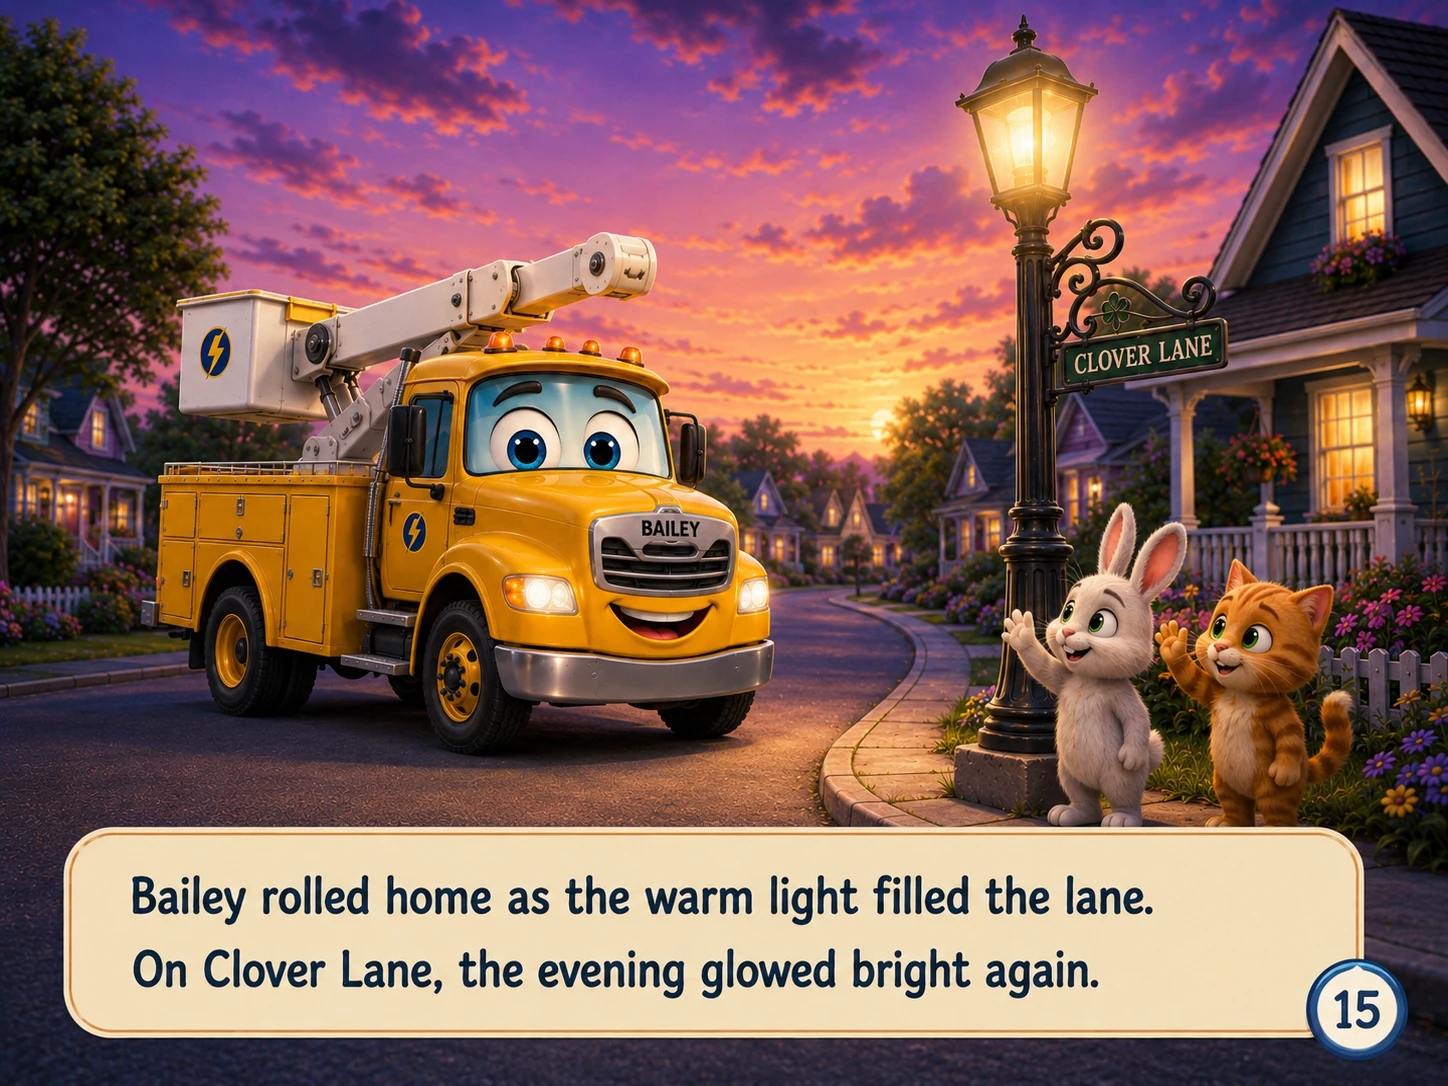
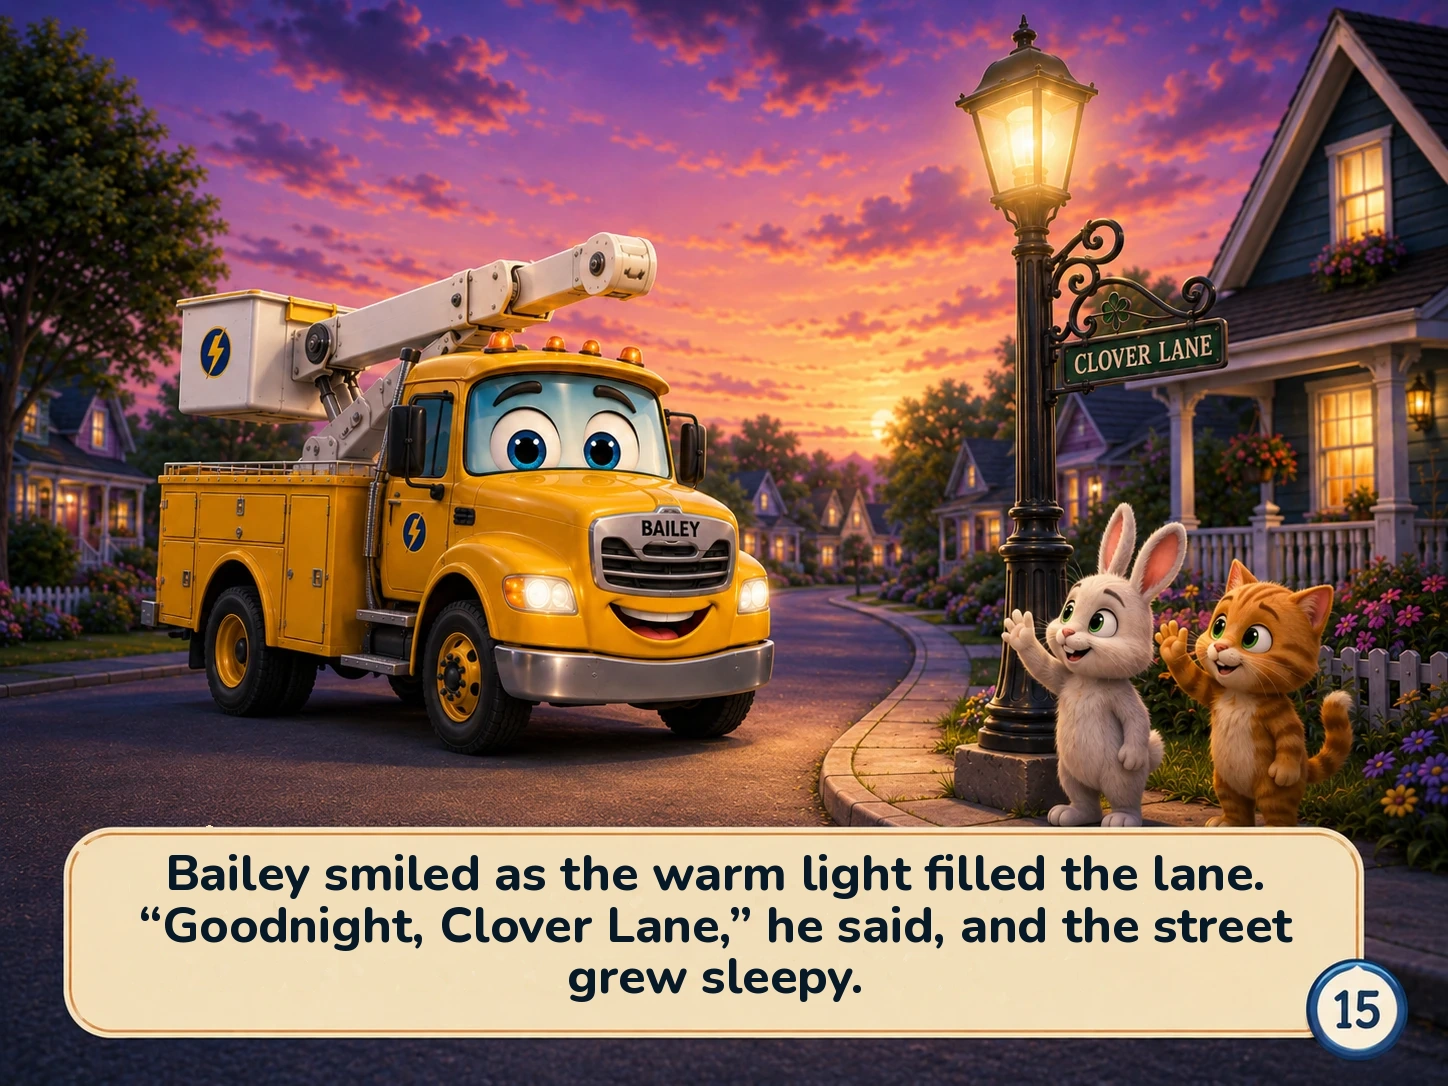
Add goodnight endings, fix two captions, and bump the library cache.
Hazel and Bailey close with a clear goodnight, Max-D says I can, Tilly's cart is hers, and the cache is nolan-library-v56.

Changed region(s): [[0.0932, 0.7901, 0.9012, 0.942]]

diff --git a/app.js b/app.js
@@ -396,7 +396,7 @@ cover: 'assets/books/max-d-twisty-training-track/cover.webp', pages: Array.from(
 narration: [
   "One quiet evening, Max-D rolled to the twisty training track. He was ready to practice slow and careful turns.",
   "The track curved left, then right, then round again. Little cones and flags showed Max-D where to go.",
-  "‘l can do this one step at a time,’ said Max-D. He took the first bend with a steady smile.",
+  "‘I can do this one step at a time,’ said Max-D. He took the first bend with a steady smile.",
   "Max-D rumbled gently between the bright orange cones. He made each turn a little smoother than the last.",
   "At the next corner, a small practice flag tipped sideways in the breeze. Max-D stopped so the track would stay neat and safe.",
   "With a careful nudge, Max-D helped the flag stand tall again. Then he rolled on down the track.",
@@ -1206,7 +1206,7 @@ speechText: [
     "Soon only one big pumpkin was left in the patch. It sat by the gate, glowing round and gold in the moonlight.",
     "Tilly rolled to the gate with a soft little hum. The last pumpkin glowed like a moonlit lantern.",
     "Farmer June gave the pumpkin a careful pat. It was the roundest pumpkin in the whole patch.",
-    "Tilly backed his cart close to the gate. With a gentle nudge, the moon pumpkin rolled aboard.",
+    "Tilly backed her cart close to the gate. With a gentle nudge, the moon pumpkin rolled aboard.",
     "Tilly carried the moon pumpkin down the lantern path. Fireflies twinkled softly all around.",
     "At the barn, the pumpkins rested in a cozy row. The whole patch looked tidy, quiet, and ready for sleep.",
     "Tilly parked by the barn and watched the moon glow high. Goodnight, Tilly. Goodnight, moonlit pumpkin patch."
@@ -1359,7 +1359,7 @@ speechText: [
     "Toby kept Wren steady while Hazel gathered the final rows. Together they worked with Hazel's golden header, neat and smooth.",
     "As the final grain tumbled into Wren, the gentle rain began to patter across the empty field.",
     "They hurried just enough to reach the barn, then parked beneath its wide, dry roof. \"Perfect timing,\" laughed Toby.",
-    "Hazel listened to the rain tapping on the roof above. By slowing down and helping one another, the friends finished every golden row."
+    "Hazel listened to the rain on the roof. “Goodnight, friends,” she said, and the barn grew sleepy."
   ]
 },
 {
@@ -1409,7 +1409,7 @@ speechText: [
     "Neighbors peeked out and gave a happy cheer. “Hooray for Bailey! The lamp is shining clear!”",
     "Bailey lowered his bucket with a gentle grin. No more flicker blinked from the lamp above him.",
     "“Thank you, Bailey!” said the bunny and the cat. “Now Clover Lane feels bright and cozy again.”",
-    "Bailey rolled home as the warm light filled the lane. On Clover Lane, the evening glowed bright again."
+    "Bailey smiled as the warm light filled the lane. “Goodnight, Clover Lane,” he said, and the street grew sleepy."
   ]
 },
 {

diff --git a/sw.js b/sw.js
@@ -1,4 +1,4 @@
-const CACHE='nolan-library-v55';
+const CACHE='nolan-library-v56';
 const CORE=['./','index.html','styles.css','app.js','config/narration-voices.json','manifest.webmanifest','assets/icons/icon-192.png','assets/icons/icon-512.png'];
 self.addEventListener('install',e=>e.waitUntil(caches.open(CACHE).then(c=>c.addAll(CORE)).then(()=>self.skipWaiting())));
 self.addEventListener('activate',e=>e.waitUntil(caches.keys().then(keys=>Promise.all(keys.filter(k=>k!==CACHE).map(k=>caches.delete(k)))).then(()=>self.clients.claim())));
